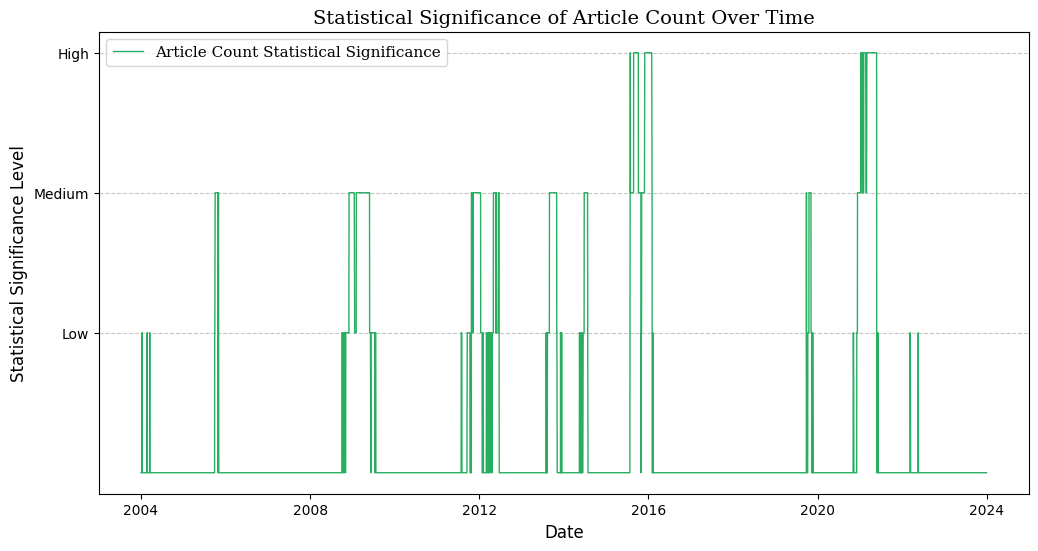
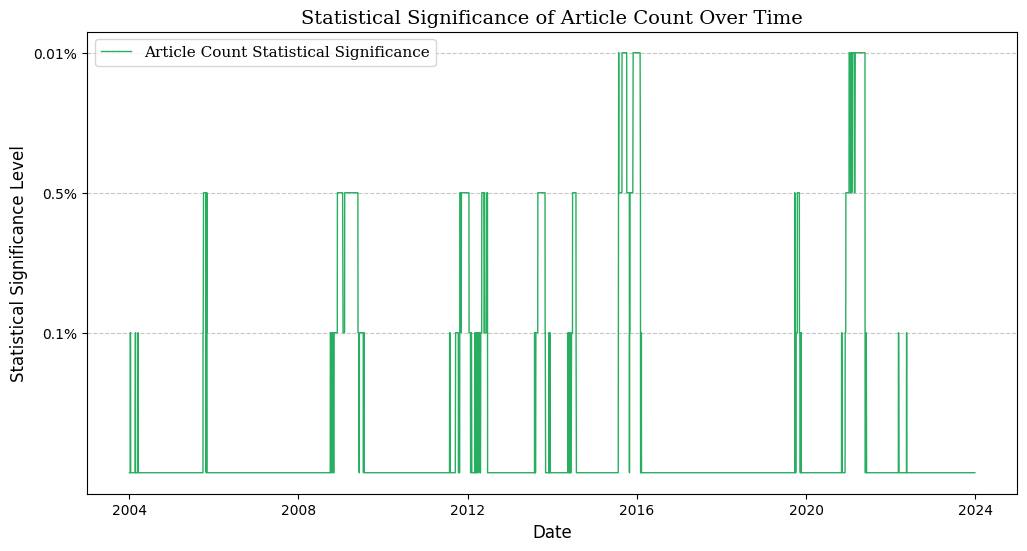
chnaged axis label

diff --git a/Show_significance_time_series.py b/Show_significance_time_series.py
@@ -51,7 +51,7 @@ plt.gca().xaxis.set_major_formatter(mdates.DateFormatter('%Y'))
 plt.legend(fontsize=11, loc='upper left', prop={'family': 'serif', 'size': 11})
 plt.xlabel('Date', fontsize=12)
 plt.ylabel('Statistical Significance Level', fontsize=12)
-plt.yticks([1, 2, 3], ['Low', 'Medium', 'High'])
+plt.yticks([1, 2, 3], ['0.1%', '0.5%', '0.01%'])
 plt.grid(axis='y', linestyle='--', alpha=0.7)
 plt.tick_params(axis='both', which='major', labelsize=10)
 plt.savefig('Plots/Positive_Sentiment_Significance.png', bbox_inches='tight')
@@ -65,7 +65,7 @@ plt.gca().xaxis.set_major_formatter(mdates.DateFormatter('%Y'))
 plt.legend(fontsize=11, loc='upper left', prop={'family': 'serif', 'size': 11})
 plt.xlabel('Date', fontsize=12)
 plt.ylabel('Statistical Significance Level', fontsize=12)
-plt.yticks([1, 2, 3], ['Low', 'Medium', 'High'])
+plt.yticks([1, 2, 3], ['0.1%', '0.5%', '0.01%'])
 plt.grid(axis='y', linestyle='--', alpha=0.7)
 plt.tick_params(axis='both', which='major', labelsize=10)
 plt.savefig('Plots/Negative_Sentiment_Significance.png', bbox_inches='tight')
@@ -79,7 +79,7 @@ plt.gca().xaxis.set_major_formatter(mdates.DateFormatter('%Y'))
 plt.legend(fontsize=11, loc='upper left', prop={'family': 'serif', 'size': 11})
 plt.xlabel('Date', fontsize=12)
 plt.ylabel('Statistical Significance Level', fontsize=12)
-plt.yticks([1, 2, 3], ['Low', 'Medium', 'High'])
+plt.yticks([1, 2, 3], ['0.1%', '0.5%', '0.01%'])
 plt.grid(axis='y', linestyle='--', alpha=0.7)
 plt.tick_params(axis='both', which='major', labelsize=10)
 plt.savefig('Plots/Article_Count_Significance.png', bbox_inches='tight')
